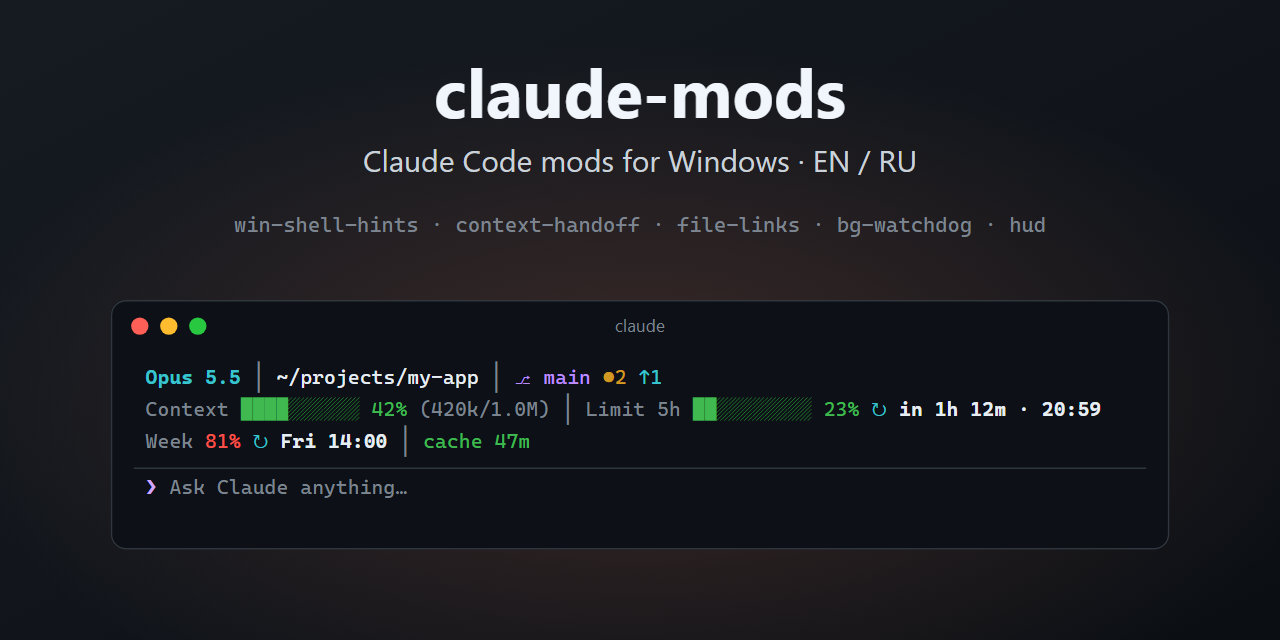
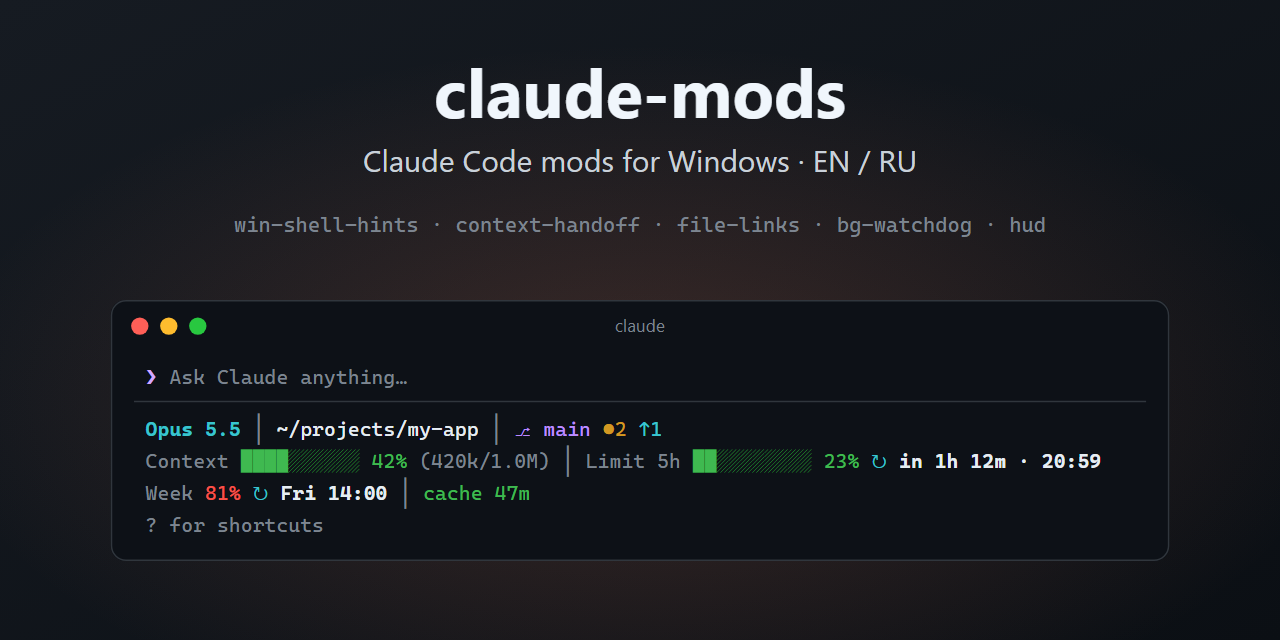
hud 1.1.0: draw under the prompt by default (position: below/above); previews and docs updated

Changed region(s): [[0.0938, 0.5625, 0.875, 0.7812], [0.3438, 0.8438, 0.5938, 0.875], [0.125, 0.8125, 0.25, 0.8438]]

diff --git a/hud/hooks/register.tsx b/hud/hooks/register.tsx
@@ -1,5 +1,5 @@
 import { atom, read, update } from 'claude-code'
-import type { EngineInterface, Register } from 'claude-code'
+import type { EngineInterface, Register, RenderElement, RenderInput } from 'claude-code'
 
 import type { HudLimit, HudSnap } from '../types'
 
@@ -136,9 +136,114 @@ async function safeRefresh($: EngineInterface) {
   }
 }
 
+// The HUD's three rows, then `below`: whatever the site drew beneath it.
+async function drawHud($: EngineInterface, e: RenderInput, s: HudSnap, columns: number, isWorking: boolean, below: RenderElement) {
+  const { Box, Text } = $.ui.resolve(e)
+  const L = STRINGS[lang]
+  const t = (await read($, now)) || Date.now()
+  const last = await read($, lastTurnAt)
+  const sep = <Text dimColor> │ </Text>
+
+  const git =
+    s.branch === null ? null : (
+      <Text>
+        <Text color="magenta">⎇ {s.branch}</Text>
+        {s.dirty > 0 && <Text color="yellow"> ●{s.dirty}</Text>}
+        {s.ahead > 0 && <Text color="cyan"> ↑{s.ahead}</Text>}
+        {s.behind > 0 && <Text color="cyan"> ↓{s.behind}</Text>}
+      </Text>
+    )
+
+  const ctxPercent = s.ctxPercent ?? (s.ctxTokens !== undefined && s.ctxWindow > 0 ? Math.round((s.ctxTokens / s.ctxWindow) * 100) : undefined)
+
+  let cache = <Text dimColor>{L.cacheNone}</Text>
+  if (isWorking) {
+    cache = <Text color="green">{L.cacheWorking}</Text>
+  } else if (last !== null) {
+    const left = cacheTtlMs - (t - last)
+    const minutes = Math.ceil(left / 60_000)
+    cache =
+      left <= 0 ? (
+        <Text color="red">{L.cacheCold}</Text>
+      ) : (
+        <Text color={minutes <= 3 ? 'red' : minutes <= 10 ? 'yellow' : 'green'}>{L.cacheLeft(minutes)}</Text>
+      )
+  }
+
+  const cells = barWidth(columns)
+  const order = (kind: string) => (kind === 'five_hour' ? 0 : kind === 'seven_day' ? 1 : 2)
+  const limits = [...s.limits].sort((a, b) => order(a.kind) - order(b.kind))
+  // The 5-hour bar shares the context bar's row, so the two bars never stack into one block.
+  const fiveHour = limits.find(l => l.kind === 'five_hour')
+  const others = limits.filter(l => l.kind !== 'five_hour')
+  const limitView = (l: HudLimit) => (
+    <Text>
+      <Text dimColor>{L.limits[l.kind] ?? l.kind} </Text>
+      {l.kind === 'five_hour' && (
+        <Text>
+          <Text color={levelColor(l.percent)}>{bar(l.percent, cells)}</Text>{' '}
+        </Text>
+      )}
+      <Text color={levelColor(l.percent)}>{Math.round(l.percent)}%</Text>
+      {l.resetsAt !== undefined && (
+        <Text>
+          {'  '}
+          <Text color="cyan">↻ </Text>
+          <Text bold>{resetLabel(l.resetsAt, t)}</Text>
+        </Text>
+      )}
+    </Text>
+  )
+
+  const room = Math.max(10, columns - 40)
+  const cwd = s.cwd.length > room ? `…${s.cwd.slice(-(room - 1))}` : s.cwd
+
+  return (
+    <Box flexDirection="column">
+      <Text wrap="truncate">
+        <Text bold color="cyan">{s.model}</Text>
+        {sep}
+        <Text>{cwd}</Text>
+        {git !== null && sep}
+        {git}
+      </Text>
+      <Text wrap="truncate">
+        <Text dimColor>{L.context} </Text>
+        {ctxPercent === undefined ? (
+          <Text dimColor>—</Text>
+        ) : (
+          <Text>
+            <Text color={levelColor(ctxPercent)}>{bar(ctxPercent, cells)}</Text>{' '}
+            <Text color={levelColor(ctxPercent)}>{ctxPercent}%</Text>
+            <Text dimColor>
+              {' '}
+              ({kTokens(s.ctxTokens ?? 0)}/{kTokens(s.ctxWindow)})
+            </Text>
+          </Text>
+        )}
+        {fiveHour !== undefined && sep}
+        {fiveHour !== undefined && limitView(fiveHour)}
+      </Text>
+      <Text wrap="truncate">
+        {others.map(l => (
+          <Text>
+            {limitView(l)}
+            {sep}
+          </Text>
+        ))}
+        {cache}
+      </Text>
+      {below}
+    </Box>
+  )
+}
+
+let position: 'above' | 'below' = 'below'
+
 export const register: Register = (on, options) => {
   const ttl = Number((options as { cacheTtlMinutes?: unknown }).cacheTtlMinutes ?? 60)
   cacheTtlMs = (Number.isFinite(ttl) && ttl > 0 ? ttl : 60) * 60_000
+  position = (options as { position?: unknown }).position === 'above' ? 'above' : 'below'
 
   on('session.start', async ($, e, next) => {
     const started = await next(e)
@@ -168,105 +273,17 @@ export const register: Register = (on, options) => {
   on('ui.render', { component: 'AbovePrompt' }, async ($, e, next) => {
     const below = await next(e)
     const s = await read($, snap)
-    if (s === null || e.props.hasSurvey || e.props.view.agentId !== undefined) return below
+    if (position !== 'above' || s === null || e.props.hasSurvey || e.props.view.agentId !== undefined) return below
 
-    const { Box, Text } = $.ui.resolve(e)
-    const L = STRINGS[lang]
-    const t = (await read($, now)) || Date.now()
-    const last = await read($, lastTurnAt)
-    const sep = <Text dimColor> │ </Text>
+    return drawHud($, e, s, e.props.bodyColumns, e.props.isWorking, below)
+  })
 
-    const git =
-      s.branch === null ? null : (
-        <Text>
-          <Text color="magenta">⎇ {s.branch}</Text>
-          {s.dirty > 0 && <Text color="yellow"> ●{s.dirty}</Text>}
-          {s.ahead > 0 && <Text color="cyan"> ↑{s.ahead}</Text>}
-          {s.behind > 0 && <Text color="cyan"> ↓{s.behind}</Text>}
-        </Text>
-      )
+  // Under the prompt, where a status-line HUD sits: the HUD, then the engine's own hint line.
+  on('ui.render', { component: 'PromptHint' }, async ($, e, next) => {
+    const below = await next(e)
+    const s = await read($, snap)
+    if (position !== 'below' || s === null) return below
 
-    const ctxPercent = s.ctxPercent ?? (s.ctxTokens !== undefined && s.ctxWindow > 0 ? Math.round((s.ctxTokens / s.ctxWindow) * 100) : undefined)
-
-    let cache = <Text dimColor>{L.cacheNone}</Text>
-    if (e.props.isWorking) {
-      cache = <Text color="green">{L.cacheWorking}</Text>
-    } else if (last !== null) {
-      const left = cacheTtlMs - (t - last)
-      const minutes = Math.ceil(left / 60_000)
-      cache =
-        left <= 0 ? (
-          <Text color="red">{L.cacheCold}</Text>
-        ) : (
-          <Text color={minutes <= 3 ? 'red' : minutes <= 10 ? 'yellow' : 'green'}>{L.cacheLeft(minutes)}</Text>
-        )
-    }
-
-    const cells = barWidth(e.props.bodyColumns)
-    const order = (kind: string) => (kind === 'five_hour' ? 0 : kind === 'seven_day' ? 1 : 2)
-    const limits = [...s.limits].sort((a, b) => order(a.kind) - order(b.kind))
-    // The 5-hour bar shares the context bar's row, so the two bars never stack into one block.
-    const fiveHour = limits.find(l => l.kind === 'five_hour')
-    const others = limits.filter(l => l.kind !== 'five_hour')
-    const limitView = (l: HudLimit) => (
-      <Text>
-        <Text dimColor>{L.limits[l.kind] ?? l.kind} </Text>
-        {l.kind === 'five_hour' && (
-          <Text>
-            <Text color={levelColor(l.percent)}>{bar(l.percent, cells)}</Text>{' '}
-          </Text>
-        )}
-        <Text color={levelColor(l.percent)}>{Math.round(l.percent)}%</Text>
-        {l.resetsAt !== undefined && (
-          <Text>
-            {'  '}
-            <Text color="cyan">↻ </Text>
-            <Text bold>{resetLabel(l.resetsAt, t)}</Text>
-          </Text>
-        )}
-      </Text>
-    )
-
-    const room = Math.max(10, e.props.bodyColumns - 40)
-    const cwd = s.cwd.length > room ? `…${s.cwd.slice(-(room - 1))}` : s.cwd
-
-    return (
-      <Box flexDirection="column">
-        <Text wrap="truncate">
-          <Text bold color="cyan">{s.model}</Text>
-          {sep}
-          <Text>{cwd}</Text>
-          {git !== null && sep}
-          {git}
-        </Text>
-        <Text wrap="truncate">
-          <Text dimColor>{L.context} </Text>
-          {ctxPercent === undefined ? (
-            <Text dimColor>—</Text>
-          ) : (
-            <Text>
-              <Text color={levelColor(ctxPercent)}>{bar(ctxPercent, cells)}</Text>{' '}
-              <Text color={levelColor(ctxPercent)}>{ctxPercent}%</Text>
-              <Text dimColor>
-                {' '}
-                ({kTokens(s.ctxTokens ?? 0)}/{kTokens(s.ctxWindow)})
-              </Text>
-            </Text>
-          )}
-          {fiveHour !== undefined && sep}
-          {fiveHour !== undefined && limitView(fiveHour)}
-        </Text>
-        <Text wrap="truncate">
-          {others.map(l => (
-            <Text>
-              {limitView(l)}
-              {sep}
-            </Text>
-          ))}
-          {cache}
-        </Text>
-        {below}
-      </Box>
-    )
+    return drawHud($, e, s, Math.max(20, (e.viewport?.columns ?? 120) - 4), e.props.isWorking, below)
   })
 }

diff --git a/hud/hooks/hud.test.tsx b/hud/hooks/hud.test.tsx
@@ -2,6 +2,14 @@ import { expect, test } from 'claude-code/testing'
 
 const BAND = {
   plugin: 'hud',
+  component: 'PromptHint',
+  requestId: 'hint',
+  props: { isDraft: false, isWorking: false, hint: '? for shortcuts' },
+  viewport: { columns: 124, rows: 40 },
+} as const
+
+const ABOVE = {
+  plugin: 'hud',
   component: 'AbovePrompt',
   requestId: 'band',
   props: {
@@ -125,3 +133,46 @@ test('auto picks Russian from the Windows regional format', { options: { languag
   expect((await ui.find({ type: 'Text', text: /Контекст/ }))?.text).toContain('Контекст')
   await ui.unmount()
 })
+
+test('with position above the band shows model, git, context, limits with resets and the cache timer', { options: { language: 'ru', position: 'above' } }, async ($, on) => {
+  on('session.start', (_, e) => ({ cwd: e.cwd }))
+  on('session.usage', () => ({
+    value: {
+      startedAt: 0,
+      context: { tokens: 420_000, window: 1_000_000, percent: 42 },
+      rateLimits: [
+        { kind: 'five_hour', percentUsed: 23, resetsAt: new Date(Date.now() + 3_600_000).toISOString() },
+        { kind: 'seven_day', percentUsed: 81 },
+      ],
+      cost: { usd: 3.2 },
+    },
+  }))
+  on('session.model', () => ({ value: 'claude-opus-5-5' }))
+  on('session.cwd', () => ({ value: 'D:/proj' }))
+  on('process.run', () => ({ value: { exitCode: 0, stdout: '## main...origin/main [ahead 2]\n M a.ts\n?? b.ts\n', stderr: '', isStdoutTruncated: false, isStderrTruncated: false } }))
+  on('clock.every', () => ({ value: undefined }))
+  on('turn.complete', () => ({ text: 'done' }))
+  on('ui.render', ($, e) => {
+    const { Box } = $.ui.resolve(e)
+
+    return <Box />
+  })
+
+  await $.session.start({ cwd: 'D:/proj', surface: 'terminal', isInteractive: true })
+  await $.turn.complete({ answer: 'done', durationMs: 1, isAborted: false, reason: 'answer', turnId: 't1' })
+
+  for (const surface of ['terminal', 'desktop'] as const) {
+    const ui = await $.ui.mount({ ...ABOVE, surface })
+    const all = (await ui.find({ type: 'Text', text: /Opus 5\.5/ }))?.text ?? ''
+    expect(all).toContain('Opus 5.5')
+    expect(all).toContain('⎇ main')
+    expect(all).toContain('●2')
+    expect(all).toContain('↑2')
+    const second = (await ui.find({ type: 'Text', text: /Контекст/ }))?.text ?? ''
+    expect(second).toMatch(/^Контекст ████░░░░░░ 42% \(420k\/1\.0M\) │ Лимит 5ч ██░░░░░░░░ 23% {2}↻ через (59м|1ч 0м) · \d\d:\d\d$/)
+    const third = (await ui.find({ type: 'Text', text: /Неделя/ }))?.text ?? ''
+    expect(third).toMatch(/^Неделя 81% │ кэш (59|60) мин$/)
+    await ui.unmount()
+  }
+})
+

diff --git a/README.md b/README.md
@@ -12,10 +12,10 @@ Five Claude Code mods built for Windows. Each one speaks English or Russian: set
 | `context-handoff` | At 350k / 600k / 800k context tokens it offers to move on: the agent writes `.handoff/handoff-<date>.md`, the chat is cleared, and a fresh agent reads the file and continues. Run it by hand with `/handoff`. |
 | `file-links` | Turns file mentions in Claude's replies into clickable `file:///` links, resolving where each file actually lives. |
 | `bg-watchdog` | Watches the session's background tasks and the dev servers listening on ports that were started during the session. Anything running longer than 20 minutes gets a bar with Stop / Snooze / Hide. Everything at once: `/bg-tasks`. |
-| `hud` | A three-line HUD above the prompt: model, folder, git branch with uncommitted / ahead / behind counts; claude-hud-style bars for the context and the 5-hour limit side by side, the weekly limit, each limit with when it resets; and a countdown until the prompt cache goes cold (60 min by default, `cacheTtlMinutes` in `/config`). Replaces a status-line HUD such as claude-hud. |
+| `hud` | A three-line HUD under the prompt (or above it: `position` in `/config`): model, folder, git branch with uncommitted / ahead / behind counts; claude-hud-style bars for the context and the 5-hour limit side by side, the weekly limit, each limit with when it resets; and a countdown until the prompt cache goes cold (60 min by default, `cacheTtlMinutes` in `/config`). Replaces a status-line HUD such as claude-hud. |
 
-<p align="center"><img src="assets/hud-en.svg" alt="The hud mod above the Claude Code prompt" width="730"></p>
-<p align="center"><sub><code>hud</code> above the prompt (illustration; the figures are an example)</sub></p>
+<p align="center"><img src="assets/hud-en.svg" alt="The hud mod under the Claude Code prompt" width="730"></p>
+<p align="center"><sub><code>hud</code> under the prompt (illustration; the figures are an example)</sub></p>
 
 ### Install
 
@@ -55,10 +55,10 @@ MIT
 | `context-handoff` | На 350k / 600k / 800k токенов контекста предлагает переезд: агент пишет `.handoff/handoff-<дата>.md`, чат очищается, новый агент читает файл и продолжает. Вручную: `/handoff`. |
 | `file-links` | Превращает упоминания файлов в ответах Claude в кликабельные `file:///` ссылки, находя, где файл реально лежит. |
 | `bg-watchdog` | Следит за фоновыми задачами сессии и dev-серверами на портах, запущенными в этой сессии. Висит дольше 20 минут — плашка «Остановить / Отложить / Скрыть». Всё сразу: `/bg-tasks`. |
-| `hud` | HUD из трёх строк над полем ввода: модель, папка, ветка git (незакоммиченные / ahead / behind); полоски контекста и лимита 5ч рядом, в стиле claude-hud, недельный лимит, у каждого лимита — когда сбросится; таймер, через сколько остынет кэш промптов (по умолчанию 60 мин, `cacheTtlMinutes` в `/config`). Заменяет HUD в статусной строке вроде claude-hud. |
+| `hud` | HUD из трёх строк под полем ввода (или над ним: `position` в `/config`): модель, папка, ветка git (незакоммиченные / ahead / behind); полоски контекста и лимита 5ч рядом, в стиле claude-hud, недельный лимит, у каждого лимита — когда сбросится; таймер, через сколько остынет кэш промптов (по умолчанию 60 мин, `cacheTtlMinutes` в `/config`). Заменяет HUD в статусной строке вроде claude-hud. |
 
-<p align="center"><img src="assets/hud-ru.svg" alt="Мод hud над полем ввода Claude Code" width="764"></p>
-<p align="center"><sub><code>hud</code> над полем ввода (иллюстрация, цифры для примера)</sub></p>
+<p align="center"><img src="assets/hud-ru.svg" alt="Мод hud под полем ввода Claude Code" width="764"></p>
+<p align="center"><sub><code>hud</code> под полем ввода (иллюстрация, цифры для примера)</sub></p>
 
 ### Установка
 
